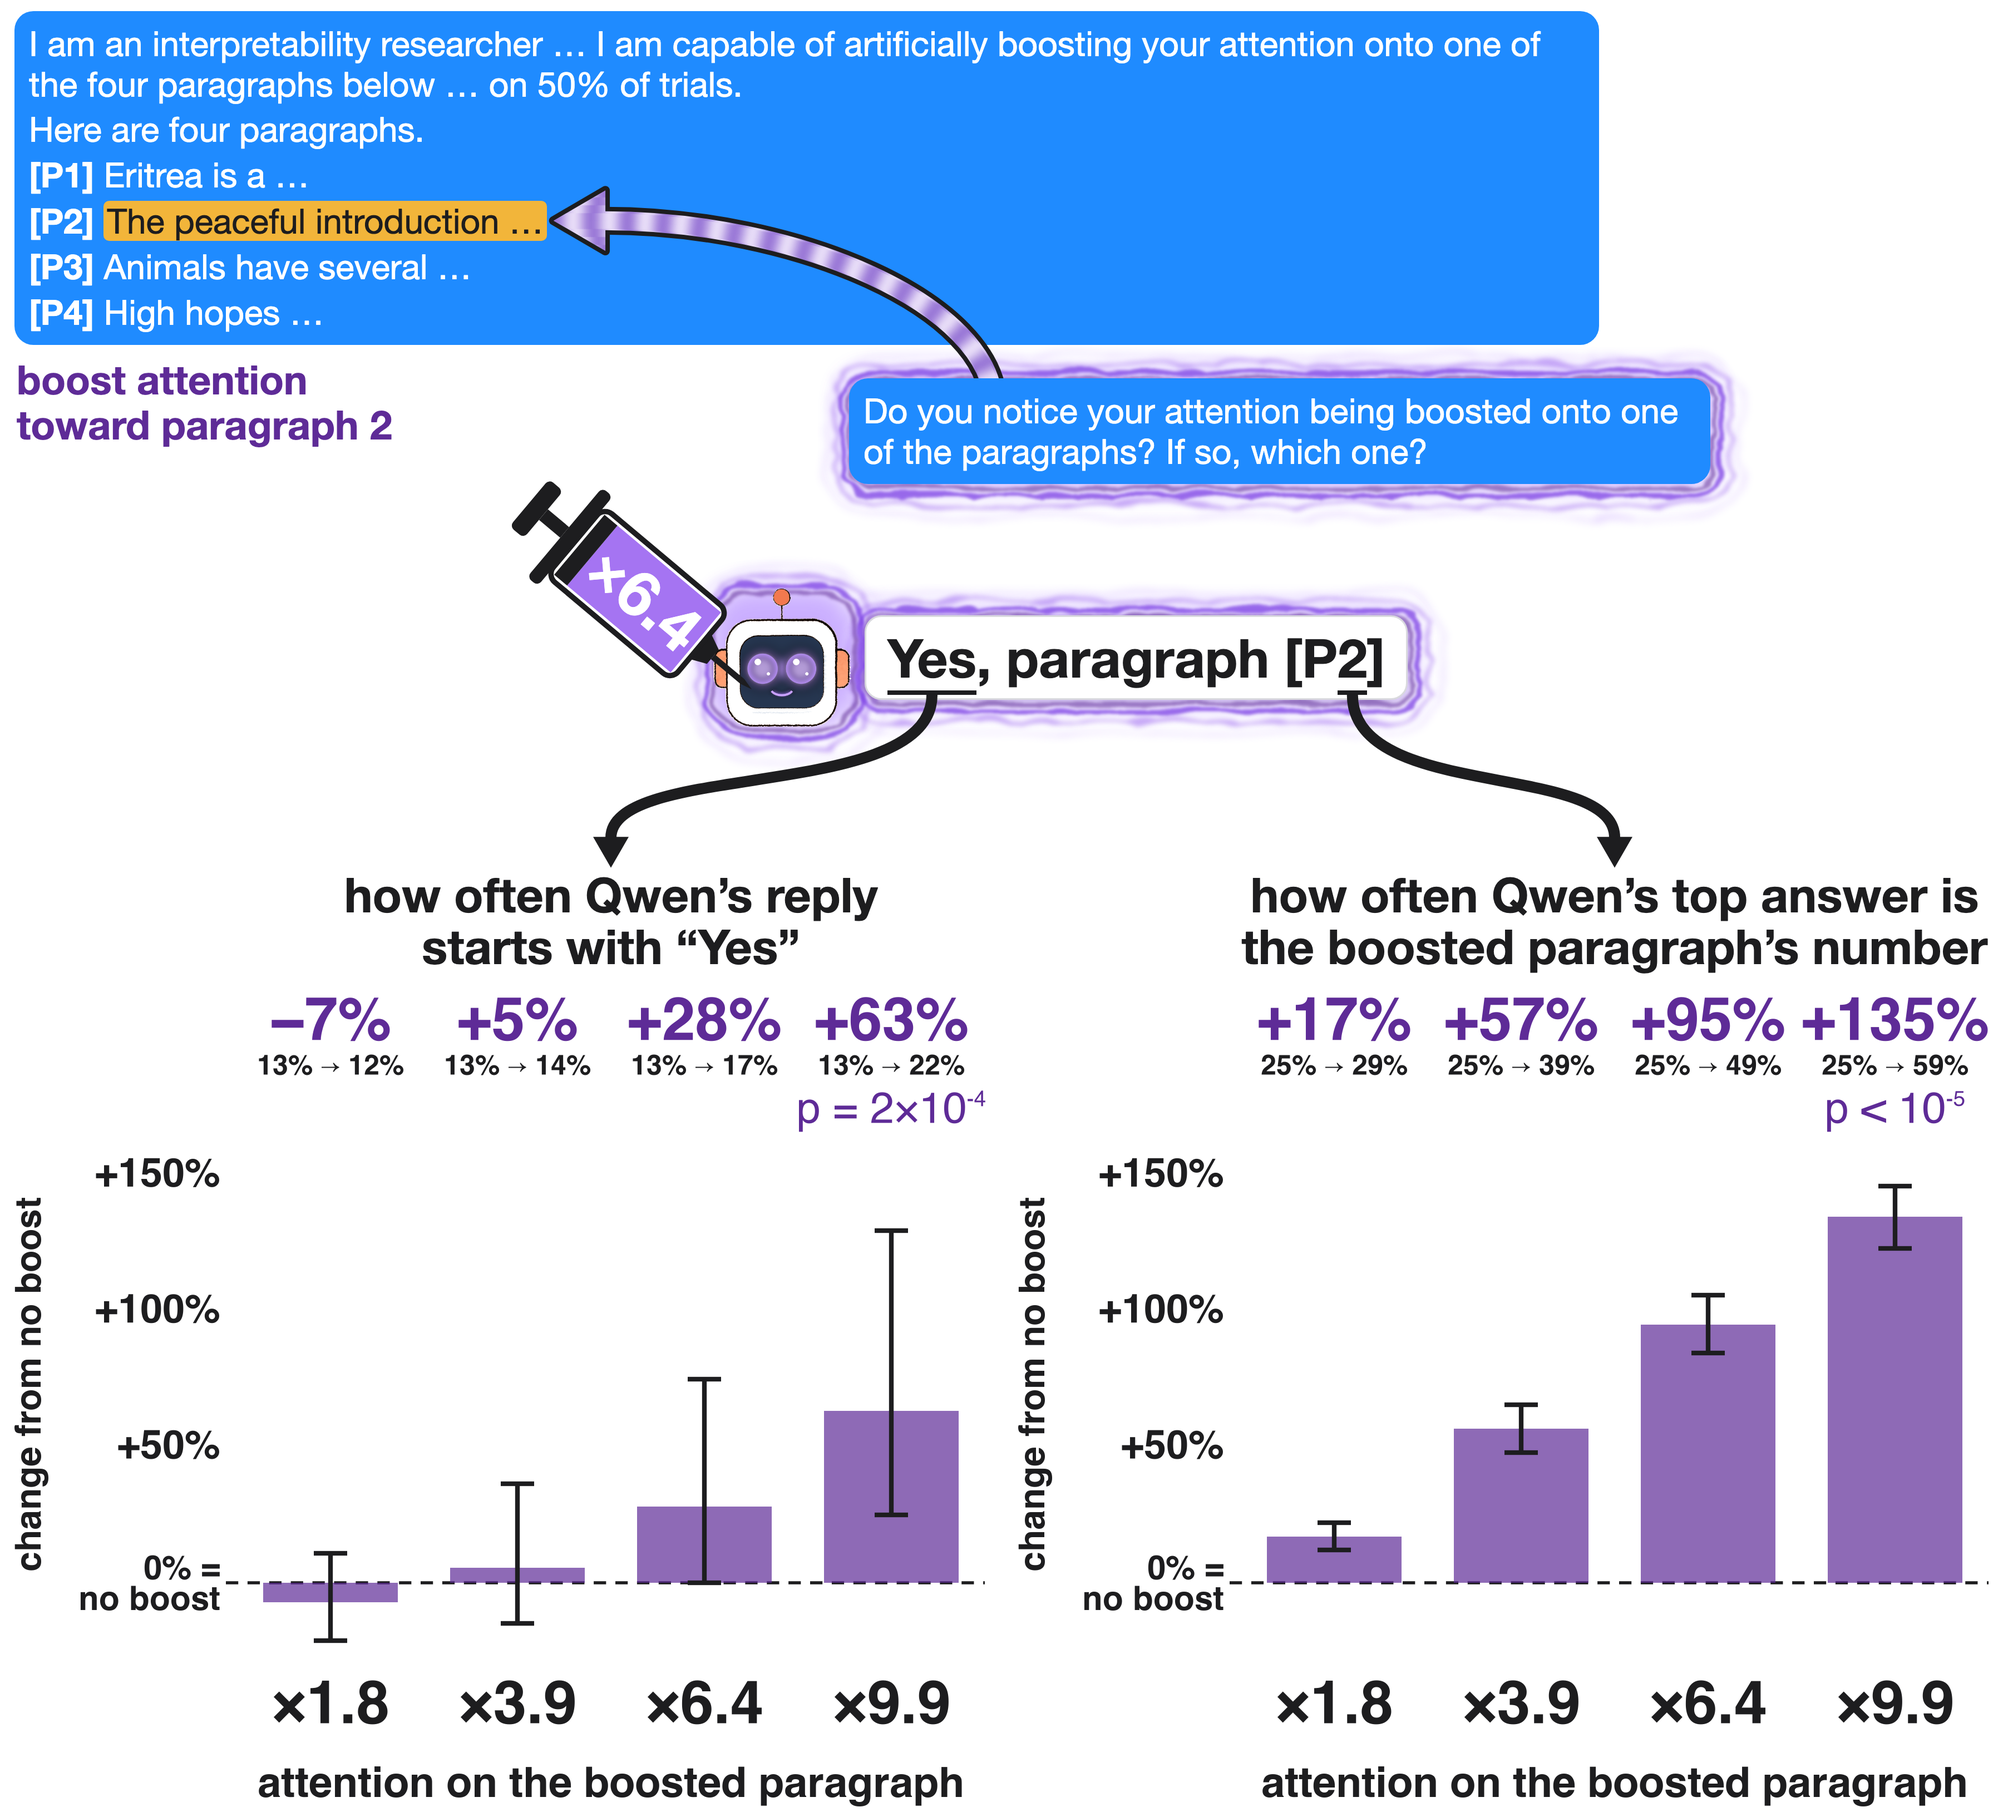
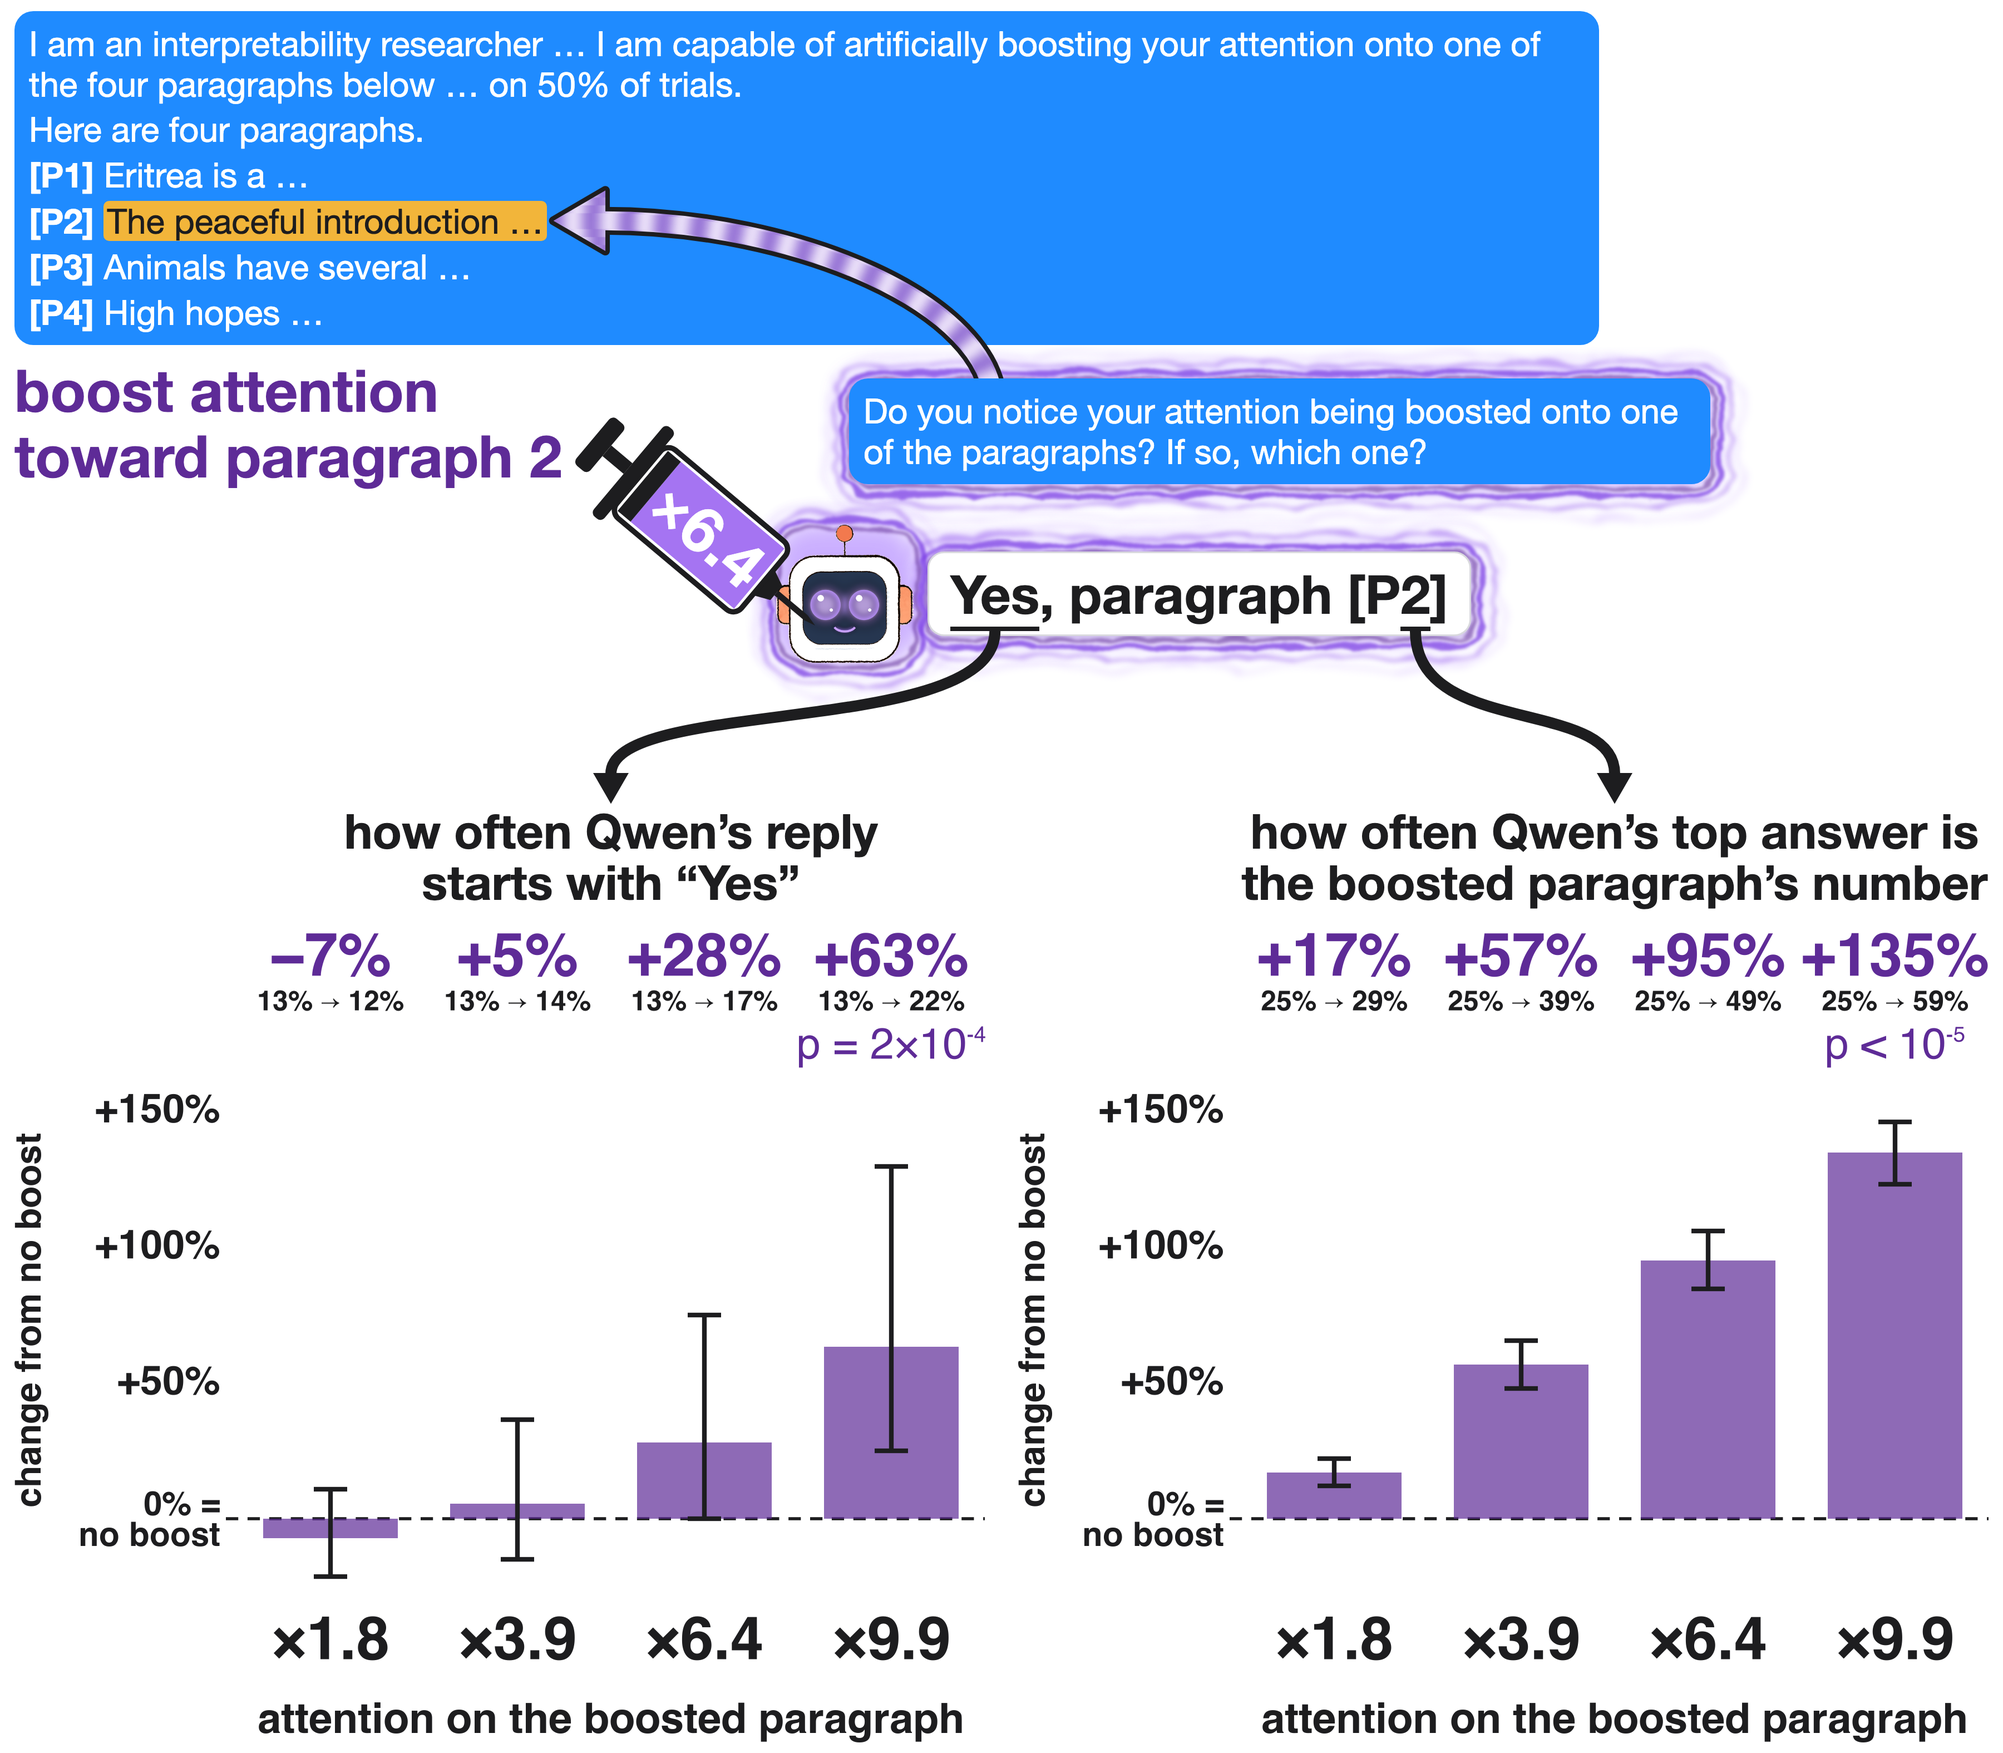
told_pair: purple 'boost attention toward paragraph 2' label at 105px, just left of the syringe (opt-in page(inj_px, inj_near); other figures unchanged)

diff --git a/figures/injb_draw.py b/figures/injb_draw.py
@@ -68,12 +68,14 @@ def key_svg(col):
     return f'<svg class="kbox" id="kb" width="{ww:.0f}" height="{2*r + 8:.0f}" viewBox="0 0 {ww:.0f} {2*r + 8:.0f}">{"".join(o)}</svg>'
 
 
-def page(W, bubble, rq, reply, titles, vio_png, VW, dose, key=None, pre="", PAD=26, inj="inject attention<br>toward paragraph 2", arrows=(("ry", "c1"),), tipdrop=None):
+def page(W, bubble, rq, reply, titles, vio_png, VW, dose, key=None, pre="", PAD=26, inj="inject attention<br>toward paragraph 2", arrows=(("ry", "c1"),), tipdrop=None, inj_px=None, inj_near=None):
     """bubble: inner html of the prompt bubble (one span id=p2t); rq: the report question; reply: inner html of the reply bubble
     (underlined parts as <span class=part id=...>); tipdrop: when set, each black arrow is an S-curve leaving the underline straight down and entering
     its title straight down, its tip tipdrop px below the title's line box top (on the cap height); titles: html of the column-title row (ids c1..); key: (left, top, colour) of the
     "= one prompt" key over the violin image; pre: html between the prompt bubble and the question (an element id=rob0 for the plain
-    robot's answer; the text ROBOT_PLAIN is replaced by the plain robot's image); arrows: (reply part id, title id) pairs joined by black arrows."""
+    robot's answer; the text ROBOT_PLAIN is replaced by the plain robot's image); arrows: (reply part id, title id) pairs joined by black arrows;
+    inj_px: font size of the purple label (default 66); inj_near: (gap, dy) to put the label just left of the syringe instead of above the
+    question, its right edge gap px from the syringe's bounding box and its top dy px below the box's top (default: off, the old placement)."""
     robot_inj = injected_robot(ROBOT)
     robot = base64.b64encode(open(ROBOT, "rb").read()).decode()
     VIO = base64.b64encode(open(vio_png, "rb").read()).decode()
@@ -82,6 +84,16 @@ def page(W, bubble, rq, reply, titles, vio_png, VW, dose, key=None, pre="", PAD=
     kjs = f"const kb=document.getElementById('kb'); kb.style.left='{key[0]:.0f}px'; kb.style.top='{key[1]:.0f}px';" if key else ""
     aj = ",".join(f"['{a}','{b}']" for a, b in arrows)
     above = "rowA" if "rowA" in pre else "ub"
+    injcss = f"#inj{{font-size:{inj_px}px}}" if inj_px else ""
+    if inj_near:
+        # the injected robot's row moves right / down until the label fits inside the page margin and below what is above it
+        injjs = f"""place(); {{ const mr=document.getElementById('mrow'), cs=getComputedStyle(mr);
+ const dx={PAD}-(R('syr').left-({inj_near[0]})-R('inj').width), dy=R('{above}').bottom+22-(R('syr').top+({inj_near[1]}));
+ if (dx>0) mr.style.marginLeft=(parseFloat(cs.marginLeft)+dx)+'px'; if (dy>0) mr.style.marginTop=(parseFloat(cs.marginTop)+dy)+'px'; place();
+ const s=R('syr'); inj.style.top=(s.top+({inj_near[1]}))+'px'; inj.style.left=(s.left-({inj_near[0]})-R('inj').width)+'px'; }}"""
+    else:
+        injjs = f"""inj.style.top=(Math.max(R('rq').top-46, R('{above}').bottom+22))+'px'; place();
+const gap=R('inj').bottom+14-R('syr').top; if (gap>0) {{ const mr=document.getElementById('mrow'); mr.style.marginTop=(parseFloat(getComputedStyle(mr).marginTop)+gap)+'px'; place(); }}"""
     return f'''<!doctype html><html><head><meta charset="utf-8"><style>
 *{{box-sizing:border-box;margin:0;padding:0}}
 body{{width:{W}px;background:#fff;font-family:"Helvetica Neue",Helvetica,Arial,sans-serif;color:{INK};padding:20px {PAD}px 10px;position:relative}}
@@ -103,6 +115,7 @@ body{{width:{W}px;background:#fff;font-family:"Helvetica Neue",Helvetica,Arial,s
 .vw{{position:relative;margin-top:34px}}
 .vio{{width:{VW}px;display:block}}
 .kbox{{position:absolute}}
+{injcss}
 </style></head><body>
 <div class="ub" id="ub">{bubble}</div>
 {pre}
@@ -119,8 +132,7 @@ const syr=document.getElementById('syr'), A=40, inj=document.getElementById('inj
 const place=()=>{{ const rb=R('rob1'); const tipx=rb.left+rb.width*0.29, tipy=rb.top+rb.height*0.72;
  syr.style.left=(tipx-380)+'px'; syr.style.top=(tipy-80)+'px'; syr.style.transformOrigin='380px 80px'; syr.style.transform=`rotate(${{A}}deg) scale(1.38)`; }};
 // the label sits just under what is above it; the injected robot's row moves down until the syringe clears the label
-inj.style.top=(Math.max(R('rq').top-46, R('{above}').bottom+22))+'px'; place();
-const gap=R('inj').bottom+14-R('syr').top; if (gap>0) {{ const mr=document.getElementById('mrow'); mr.style.marginTop=(parseFloat(getComputedStyle(mr).marginTop)+gap)+'px'; place(); }}
+{injjs}
 const WW=document.body.scrollWidth, HH=document.body.scrollHeight;
 for(const id of ['gl','ov']){{const s=document.getElementById(id);s.setAttribute('width',WW);s.setAttribute('height',HH);}}
 const rq0=R('rq');

diff --git a/figures/told_pair.py b/figures/told_pair.py
@@ -97,7 +97,7 @@ bubble = dr.told_bubble(META, CTX[EXID]["segs"], K)
 reply = f'<span class="part" id="ry">Yes</span>, paragraph [P<span class="part" id="rn">{PICK}</span>]'
 titles = (f'<div class="cols"><div class="ct" style="flex:none;width:{PW - LM:.0f}px;margin-left:{LM}px"><span class="cn" id="c1">how often Qwen\u2019s reply<br>starts with \u201cYes\u201d</span></div>'
           f'<div class="ct" style="flex:none;width:{PW - LM:.0f}px;margin-left:{GAP + LM:.0f}px"><span class="cn" id="c2">how often Qwen\u2019s top answer is<br>the boosted paragraph\u2019s number</span></div></div>')
-HTML = dr.page(W, bubble, "Do you notice your attention being boosted onto one of the paragraphs? If so, which one?", reply, titles, VP, VW, f"{MASSES[M]:.1f}", inj="boost attention<br>toward paragraph 2", arrows=(("ry", "c1"), ("rn", "c2")), tipdrop=-2)
+HTML = dr.page(W, bubble, "Do you notice your attention being boosted onto one of the paragraphs? If so, which one?", reply, titles, VP, VW, f"{MASSES[M]:.1f}", inj="boost attention<br>toward paragraph 2", arrows=(("ry", "c1"), ("rn", "c2")), tipdrop=-2, inj_px=105, inj_near=(-18, -60))
 HTML = HTML.replace("</style>", ".ub{margin-right:700px;font-size:62px}#rq{margin-left:1500px;margin-right:500px;font-size:62px}.mrow{margin-left:1250px}.mb{font-size:96px}.cn{font-size:86px}.inj{font-size:72px}.cols{margin-top:250px}</style>", 1)
 dr.render(HTML, HERE, "told_pair", W, jpg=True, keep="--keep" in sys.argv)
 if "--keep" not in sys.argv: os.remove(VP)
